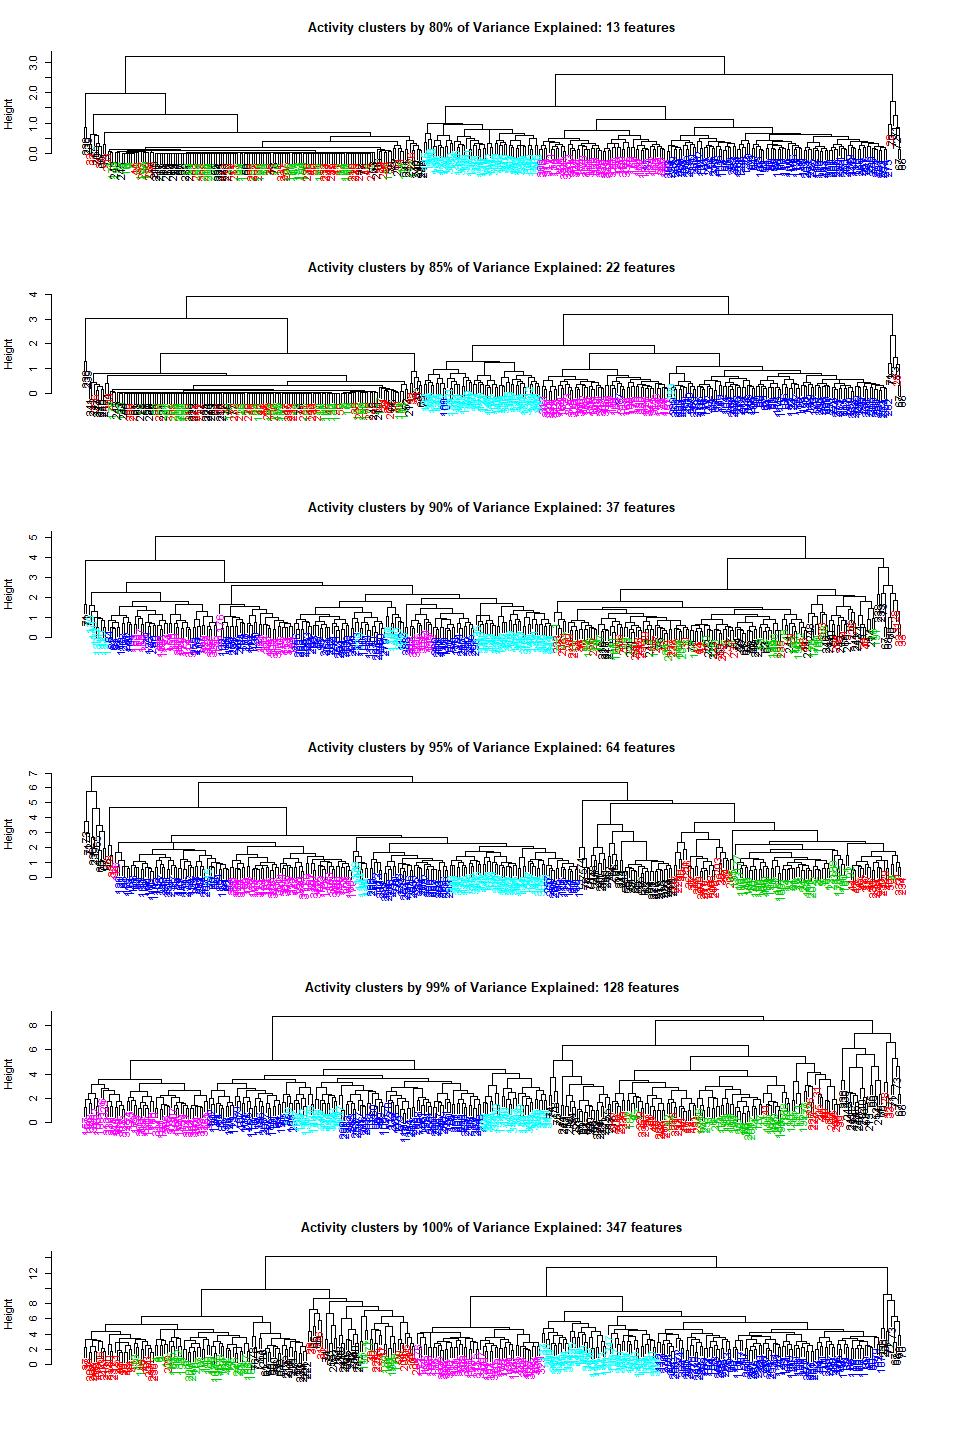
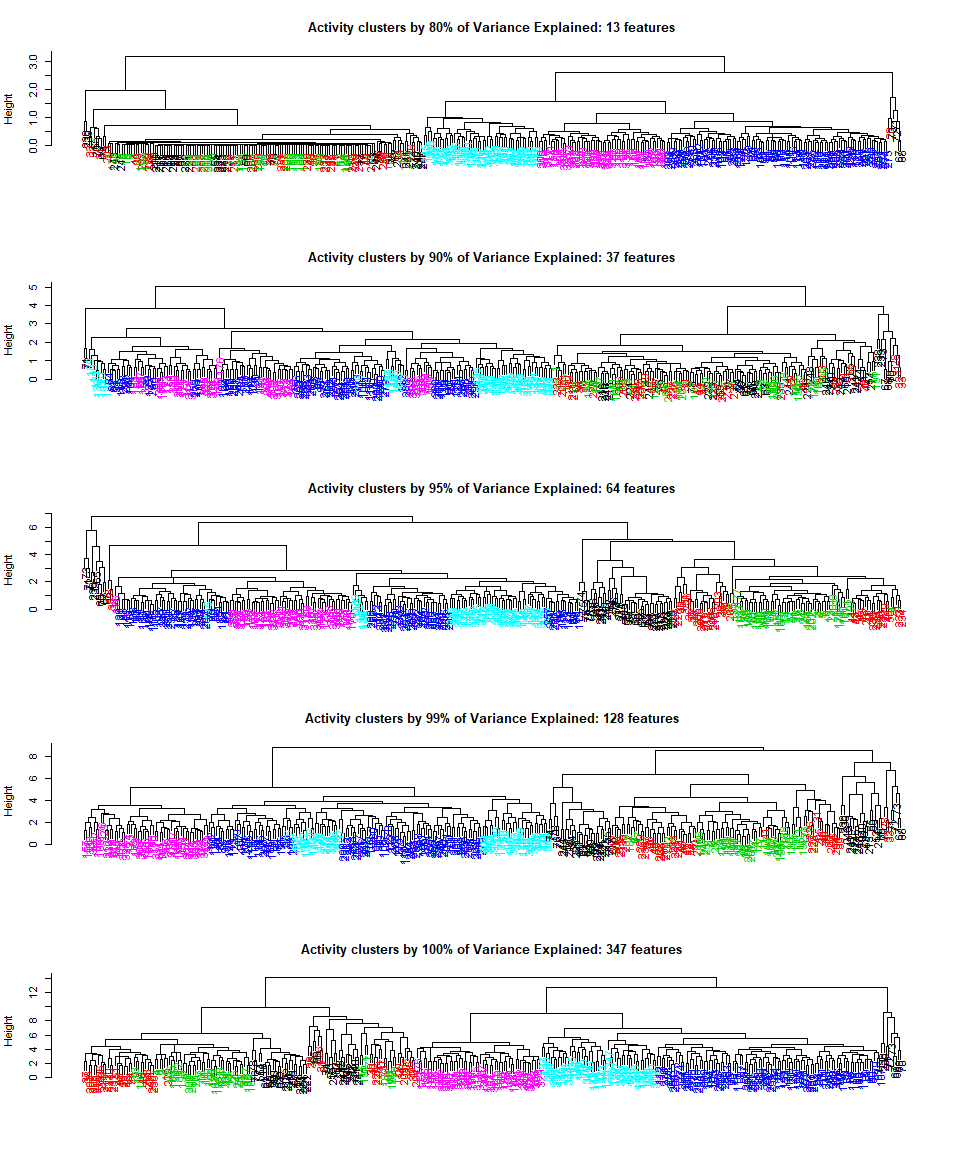
repo name change

diff --git a/README.md b/README.md
@@ -1,7 +1,7 @@
 README
 ================
 by Maurício Collaça
-on 2017-12-11
+on 2017-12-14
 
 Getting and Cleaning Data Course Project
 ----------------------------------------
@@ -20,30 +20,30 @@ The data set used in this project is from the University of California Irvine (U
 
 The data set for this project is available at [Cloudfront](https://d396qusza40orc.cloudfront.net/getdata%2Fprojectfiles%2FUCI%20HAR%20Dataset.zip) or [UCI](http://archive.ics.uci.edu/ml/machine-learning-databases/00240/UCI%20HAR%20Dataset.zip).
 
-HAR-ADL-analysis repository
----------------------------
+HAR-ADL repository
+------------------
 
-The [HAR-ADL-analysis](https://github.com/mauriciocramos/HAR-ADL-analysis) repository includes the following files:
+The [HAR-ADL](https://github.com/mauriciocramos/HAR-ADL) repository includes the following files:
 
--   [README.md](https://github.com/mauriciocramos/HAR-ADL-analysis/blob/master/README.md) - This README file.
+-   [README.md](https://github.com/mauriciocramos/HAR-ADL/blob/master/README.md) - This README file.
 
--   [run\_analysis.R](https://github.com/mauriciocramos/HAR-ADL-analysis/blob/master/run_analysis.R) - R script to perform the data downloading, tidying, filtering and averaging required by the project.
+-   [run\_analysis.R](https://github.com/mauriciocramos/HAR-ADL/blob/master/run_analysis.R) - R script to perform the data downloading, tidying, filtering and averaging required by the project.
 
--   [CodeBook.md](https://github.com/mauriciocramos/HAR-ADL-analysis/blob/master/CodeBook.md) - Code book that modifies and updates the available codebooks with the data to indicate all variables and summaries calculated, units, transformations, work performed to clean up, tidy, process and display of the data and any other relevant information.
+-   [CodeBook.md](https://github.com/mauriciocramos/HAR-ADL/blob/master/CodeBook.md) - Code book that modifies and updates the available codebooks with the data to indicate all variables and summaries calculated, units, transformations, work performed to clean up, tidy, process and display of the data and any other relevant information.
 
--   [HAR-ADL-utils.R](https://github.com/mauriciocramos/HAR-ADL-analysis/blob/master/HAR-ADL-utils.R) - R script containing file reading helper functions developed to encapsulate code and improve the reusability and the readability of the `run_analysis.R`. It's not necessary to read the `HAR-ADL-utils.R` source code in order to understand the `run_analysis.R`.
+-   [HAR-ADL-utils.R](https://github.com/mauriciocramos/HAR-ADL/blob/master/HAR-ADL-utils.R) - R script containing file reading helper functions developed to encapsulate code and improve the reusability and the readability of the `run_analysis.R`. It's not necessary to read the `HAR-ADL-utils.R` source code in order to understand the `run_analysis.R`.
 
--   [averages.txt](https://github.com/mauriciocramos/HAR-ADL-analysis/blob/master/averages.txt) - A tidy data set output from `run_analysis.R`, containing the the average of each mean and standard deviation variable for each activity and each subject.
+-   [averages.txt](https://github.com/mauriciocramos/HAR-ADL/blob/master/averages.txt) - A tidy data set output from `run_analysis.R`, containing the the average of each mean and standard deviation variable for each activity and each subject.
 
 Installation, running and evaluation instructions
 -------------------------------------------------
 
-These are the basic installation, running and evaluation instructions for the project. Please read and follow them carefully to ensure you have everything running properly and after that, read the [CodeBook.md](https://github.com/mauriciocramos/HAR-ADL-analysis/blob/master/CodeBook.md) for deeper explanations and final evaluation.
+These are the basic installation, running and evaluation instructions for the project. Please read and follow them carefully to ensure you have everything running properly and after that, read the [CodeBook.md](https://github.com/mauriciocramos/HAR-ADL/blob/master/CodeBook.md) for deeper explanations and final evaluation.
 
 1.  If you still haven't done it, install R available at [The R Foundation](https://www.r-project.org/). This project used R version 3.4.3 (2017-11-30).
 2.  Optionally, you may use RStudio as well, available at [RStudio](https://www.rstudio.com/). This project used RStudio Desktop version 1.1.383.
 3.  If you still haven't done it, install additional R packages `{dplyr}` and `{tidyr}`. The easiest way to do that is via R (menu Packages &gt; Install Package(s)...) or RStudio (menu Tools &gt; Install packages...). This project used `{dplyr}` version 0.7.4 and `{tidr}` version 0.7.2.
-4.  Download only [run\_analysis.R](https://raw.githubusercontent.com/mauriciocramos/HAR-ADL-analysis/master/run_analysis.R) and [HAR-ADL-utils.R](https://raw.githubusercontent.com/mauriciocramos/HAR-ADL-analysis/master/HAR-ADL-utils.R) in some local working directory of your preference. The other files (i.e. \*.md files) are not necessary to download for your evaluation as they are rendered by GitHub website. If you download them you would need Rstudio to view/render them in your computer.
+4.  Download only [run\_analysis.R](https://raw.githubusercontent.com/mauriciocramos/HAR-ADL/master/run_analysis.R) and [HAR-ADL-utils.R](https://raw.githubusercontent.com/mauriciocramos/HAR-ADL/master/HAR-ADL-utils.R) in some local working directory of your preference. The other files (i.e. \*.md files) are not necessary to download for your evaluation as they are rendered by GitHub website. If you download them you would need Rstudio to view/render them in your computer.
 5.  Optionally, download the `Dataset.zip` from [Cloudfront](https://d396qusza40orc.cloudfront.net/getdata%2Fprojectfiles%2FUCI%20HAR%20Dataset.zip) or [UCI](http://archive.ics.uci.edu/ml/machine-learning-databases/00240/UCI%20HAR%20Dataset.zip) in the same local working directory but the script will do that for your convenience.
 6.  Open `R` or `RStudio`
 7.  Go to the directory where the scripts were download using the command `setwd("your-directory-here")`
@@ -118,9 +118,9 @@ You may check out this data set by in many ways:
 
 `View(read.table("averages.txt", header = TRUE, stringsAsFactors = FALSE))`
 
-If you still haven't run the script, you may preview the `averages.txt` [here](https://github.com/mauriciocramos/HAR-ADL-analysis/blob/master/averages.txt).
+If you still haven't run the script, you may preview the `averages.txt` [here](https://github.com/mauriciocramos/HAR-ADL/blob/master/averages.txt).
 
-I hope you enjoy it and don't forget to checkout the [CodeBook.md](https://github.com/mauriciocramos/HAR-ADL-analysis/blob/master/CodeBook.md) for deeper explanations and final evaluation.
+I hope you enjoy it and don't forget to checkout the [CodeBook.md](https://github.com/mauriciocramos/HAR-ADL/blob/master/CodeBook.md) for deeper explanations and final evaluation.
 
 Acknowledgment
 --------------

diff --git a/CodeBook.md b/CodeBook.md
@@ -138,7 +138,7 @@ One can conclude there are eight 3-axial signals and nine magnitude signals tota
 `fBodyGyroMag`
 `fBodyGyroJerkMag`
 
-The following chart illustrates the feature selection. Click [here](https://github.com/mauriciocramos/HAR-ADL-analysis/raw/master/HAR-ADL-feature-selection.png) to enlarge.
+The following chart illustrates the feature selection. Click [here](https://github.com/mauriciocramos/HAR-ADL/raw/master/HAR-ADL-feature-selection.png) to enlarge.
 
 ![Feature Selection](HAR-ADL-feature-selection.png)
 
@@ -259,7 +259,7 @@ packageVersion("tidyr")
 Transformations
 ---------------
 
-The [`run_analysis.R`](https://github.com/mauriciocramos/HAR-ADL-analysis/blob/master/run_analysis.R) script was developed to fullfill the following formal requirements of the project:
+The [`run_analysis.R`](https://github.com/mauriciocramos/HAR-ADL/blob/master/run_analysis.R) script was developed to fullfill the following formal requirements of the project:
 
 > 1.  Merges the training and the test sets to create one data set.
 > 2.  Extracts only the measurements on the mean and standard deviation for each measurement.
@@ -292,19 +292,19 @@ The `{tidyr}` function `gather()` is used to take multiple columns and collapses
 library(tidyr)
 ```
 
-As mentioned above, in order to encapsulate code and improve the reusability and the readability of the [`run_analysis.R`](https://github.com/mauriciocramos/HAR-ADL-analysis/blob/master/run_analysis.R) script, the file reading helper functions were written in a separate R script called [HAR-ADL-utils.R](https://github.com/mauriciocramos/HAR-ADL-analysis/blob/master/HAR-ADL-utils.R).
+As mentioned above, in order to encapsulate code and improve the reusability and the readability of the [`run_analysis.R`](https://github.com/mauriciocramos/HAR-ADL/blob/master/run_analysis.R) script, the file reading helper functions were written in a separate R script called [HAR-ADL-utils.R](https://github.com/mauriciocramos/HAR-ADL/blob/master/HAR-ADL-utils.R).
 
-In case you forgot to download the [HAR-ADL-utils.R](https://raw.githubusercontent.com/mauriciocramos/HAR-ADL-analysis/master/HAR-ADL-utils.R), the [run\_analysis.R](https://raw.githubusercontent.com/mauriciocramos/HAR-ADL-analysis/master/run_analysis.R) will automatically download it for your convenience.
+In case you forgot to download the [HAR-ADL-utils.R](https://raw.githubusercontent.com/mauriciocramos/HAR-ADL/master/HAR-ADL-utils.R), the [run\_analysis.R](https://raw.githubusercontent.com/mauriciocramos/HAR-ADL/master/run_analysis.R) will automatically download it for your convenience.
 
 ``` r
 if(!file.exists("HAR-ADL-utils.R"))
-    download.file("https://raw.githubusercontent.com/mauriciocramos/HAR-ADL-analysis/master/HAR-ADL-utils.R",
+    download.file("https://raw.githubusercontent.com/mauriciocramos/HAR-ADL/master/HAR-ADL-utils.R",
                   "HAR-ADL-utils.R",
                   quiet = TRUE)
 source("HAR-ADL-utils.R")
 ```
 
-It's not necessary to read the `HAR-ADL-utils.R` source code in order to understand the [`run_analysis.R`](https://github.com/mauriciocramos/HAR-ADL-analysis/blob/master/run_analysis.R).
+It's not necessary to read the `HAR-ADL-utils.R` source code in order to understand the [`run_analysis.R`](https://github.com/mauriciocramos/HAR-ADL/blob/master/run_analysis.R).
 
 These functions loads the data set files into R `data.frame` objects:
 
@@ -547,13 +547,13 @@ str(averages)
     ##  $ feature : chr  "fBodyAcc-mean()-X" "fBodyAcc-mean()-Y" "fBodyAcc-mean()-Z" "fBodyAcc-meanFreq()-X" ...
     ##  $ average : num  -0.9391 -0.8671 -0.8827 -0.1588 0.0975 ...
 
-The result is exported to the file [`averages.txt`](https://github.com/mauriciocramos/HAR-ADL-analysis/blob/master/averages.txt) in the current working directory
+The result is exported to the file [`averages.txt`](https://github.com/mauriciocramos/HAR-ADL/blob/master/averages.txt) in the current working directory
 
 ``` r
 write.table(averages, file = "averages.txt", row.names = FALSE)
 ```
 
-For the peer reviewing of the file [`averages.txt`](https://github.com/mauriciocramos/HAR-ADL-analysis/blob/master/averages.txt) one can load it with the following command
+For the peer reviewing of the file [`averages.txt`](https://github.com/mauriciocramos/HAR-ADL/blob/master/averages.txt) one can load it with the following command
 
 ``` r
 View(read.table("averages.txt", header = TRUE, stringsAsFactors = FALSE))
@@ -569,7 +569,7 @@ You may check out this data set by in many ways:
 
 `View(read.table("averages.txt", header = TRUE, stringsAsFactors = FALSE))`
 
-If you still haven't run the script, you may preview the `averages.txt` [here](https://github.com/mauriciocramos/HAR-ADL-analysis/blob/master/averages.txt).
+If you still haven't run the script, you may preview the `averages.txt` [here](https://github.com/mauriciocramos/HAR-ADL/blob/master/averages.txt).
 
 Acknowledgment
 --------------

diff --git a/HAR-ADL-clustering.md b/HAR-ADL-clustering.md
@@ -65,19 +65,21 @@ Variance Explained for the first subject: ![](HAR-ADL-clustering_files/figure-ma
 
 Number of features by proportions of Variance Explained
 
-    ##      [,1] [,2] [,3] [,4] [,5] [,6]
-    ## [1,] 0.8  0.85 0.9  0.95 0.99 1   
-    ## [2,] 13   22   37   64   128  347
+    ##      [,1] [,2] [,3] [,4] [,5]
+    ## [1,] 0.8  0.9  0.95 0.99 1   
+    ## [2,] 13   37   64   128  347
 
 **Scatter plot**
 
-Features selected by 85% of the Variance Explained mostly due to average display resolutions about 1920 X 1024 pixels.:
+Features selected by 80% of the Variance Explained mostly due to average display resolutions about 1920 X 1024 pixels.:
 
 ![](HAR-ADL-clustering_files/figure-markdown_github/unnamed-chunk-13-1.png)
 
 **Activity clusters varying by percentages of the Variance Explained** ![](HAR-ADL-clustering_files/figure-markdown_github/unnamed-chunk-14-1.png)
 
-### Visual analysis of sensor averages in XYZ directions from time and frequency domains from all subjects
+### Feature visual selection
+
+Visually selecting features from sensor averages in XYZ directions from time and frequency domains from all subjects
 
 Initial feature subset:
 
@@ -102,7 +104,7 @@ Revised features subset:
     ## [4] "fBodyAcc.mean...X"     "fBodyAcc.mean...Y"     "fBodyAcc.mean...Z"    
     ## [7] "fBodyAccJerk.mean...X" "fBodyAccJerk.mean...Y" "fBodyAccJerk.mean...Z"
 
-**Activity clusters of the first subject using selected features** ![](HAR-ADL-clustering_files/figure-markdown_github/unnamed-chunk-19-1.png)
+**Activity clusters of the first subject using visually selected features** ![](HAR-ADL-clustering_files/figure-markdown_github/unnamed-chunk-19-1.png)
 
 ### k-means Clustering
 
@@ -110,40 +112,40 @@ With all features, 2 groups and 100 random starts k-means almost correctly class
 
     ##        
     ## cluster laying sitting standing walk walkdown walkup
-    ##       1      5       0        0   95       49     53
-    ##       2     45      47       53    0        0      0
+    ##       1     45      47       53    0        0      0
+    ##       2      5       0        0   95       49     53
 
 With all features, 6 groups and 100 random starts k-means stabilizes and correctly classified walk and walkdown activities.
 
     ##        
     ## cluster laying sitting standing walk walkdown walkup
-    ##       1      3       0        0    0        0     53
-    ##       2     29       0        0    0        0      0
-    ##       3     18      10        2    0        0      0
+    ##       1     29       0        0    0        0      0
+    ##       2     18      10        2    0        0      0
+    ##       3      0       0        0    0       49      0
     ##       4      0      37       51    0        0      0
-    ##       5      0       0        0   95        0      0
-    ##       6      0       0        0    0       49      0
+    ##       5      3       0        0    0        0     53
+    ##       6      0       0        0   95        0      0
 
     ##        
     ## cluster walk walkdown
-    ##       5   95        0
-    ##       6    0       49
+    ##       3    0       49
+    ##       6   95        0
 
 With the Principal Components of SVD, 6 groups and 100 random starts k-means also stabilizes and correctly classified walk and walkdown activities.
 
     ##        
     ## cluster laying sitting standing walk walkdown walkup
-    ##       1      2       0        0    0        0     53
-    ##       2     29       0        0    0        0      0
-    ##       3     19       9        2    0        0      0
-    ##       4      0       0        0    0       49      0
-    ##       5      0       0        0   95        0      0
-    ##       6      0      38       51    0        0      0
+    ##       1      0       0        0    0       49      0
+    ##       2      0      38       51    0        0      0
+    ##       3     29       0        0    0        0      0
+    ##       4     19       9        2    0        0      0
+    ##       5      2       0        0    0        0     53
+    ##       6      0       0        0   95        0      0
 
     ##        
     ## cluster walk walkdown
-    ##       4    0       49
-    ##       5   95        0
+    ##       1    0       49
+    ##       6   95        0
 
 Looking at the features (columns) of these centers to see if any dominate.
 
